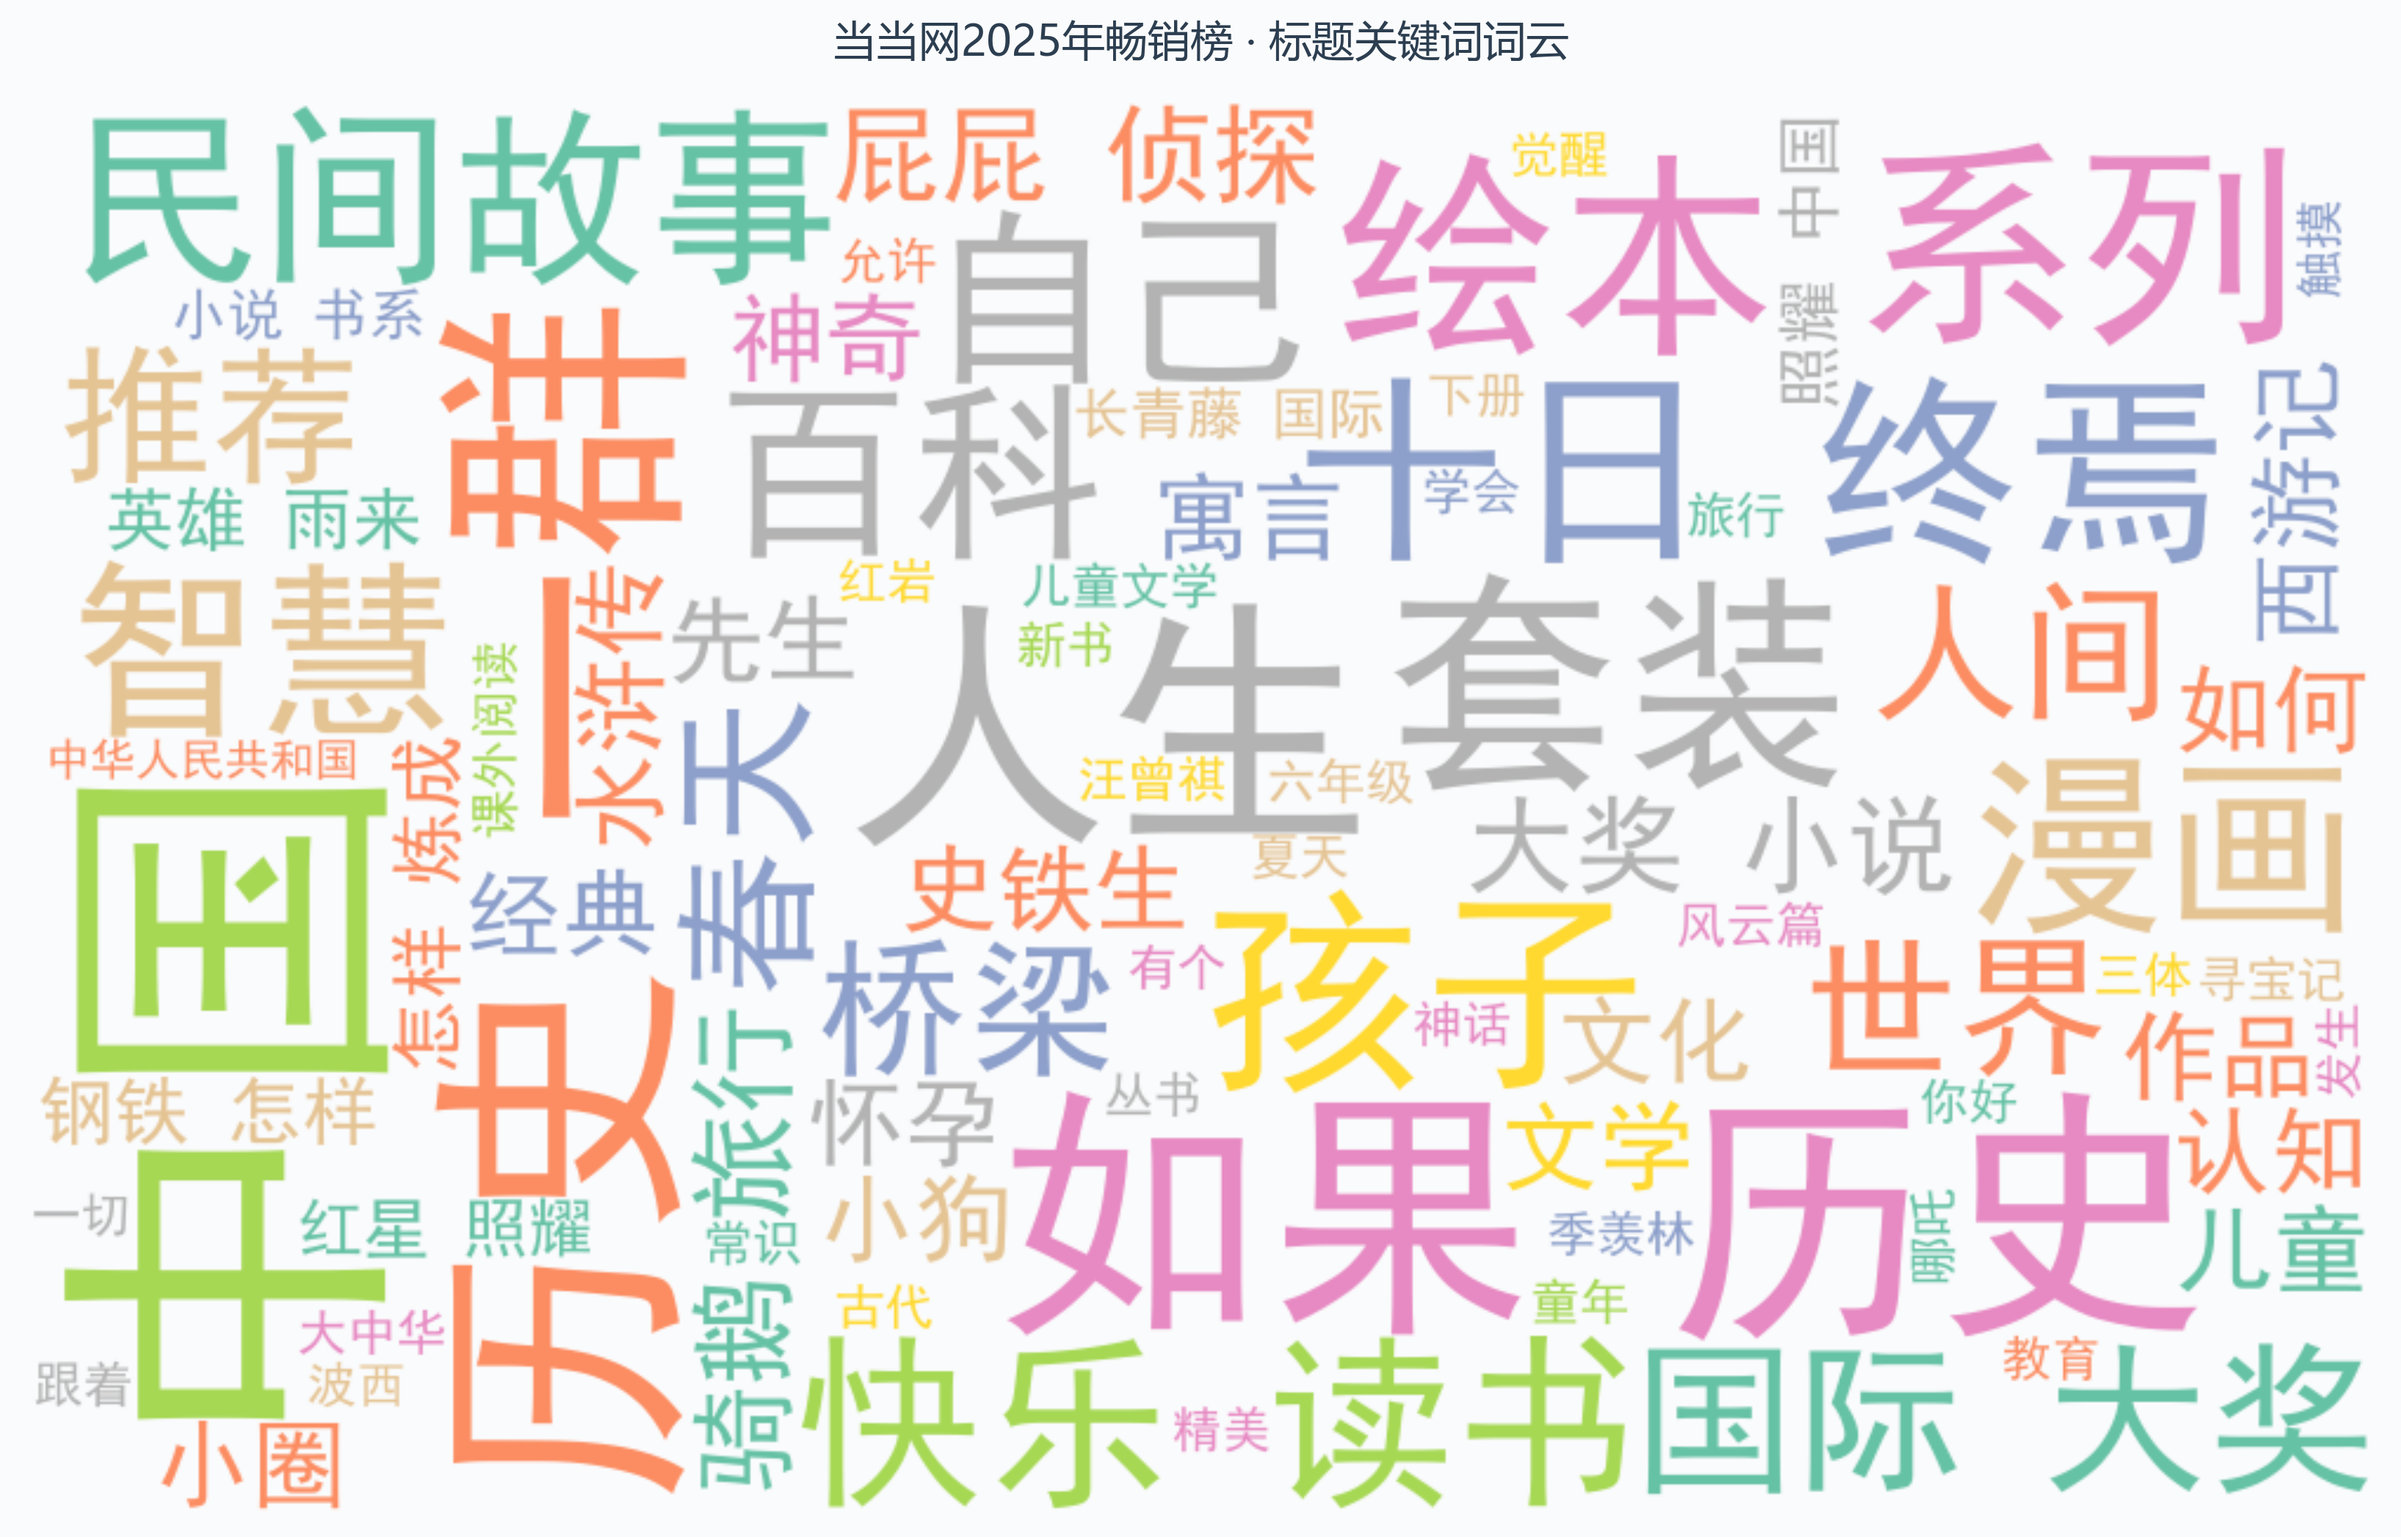
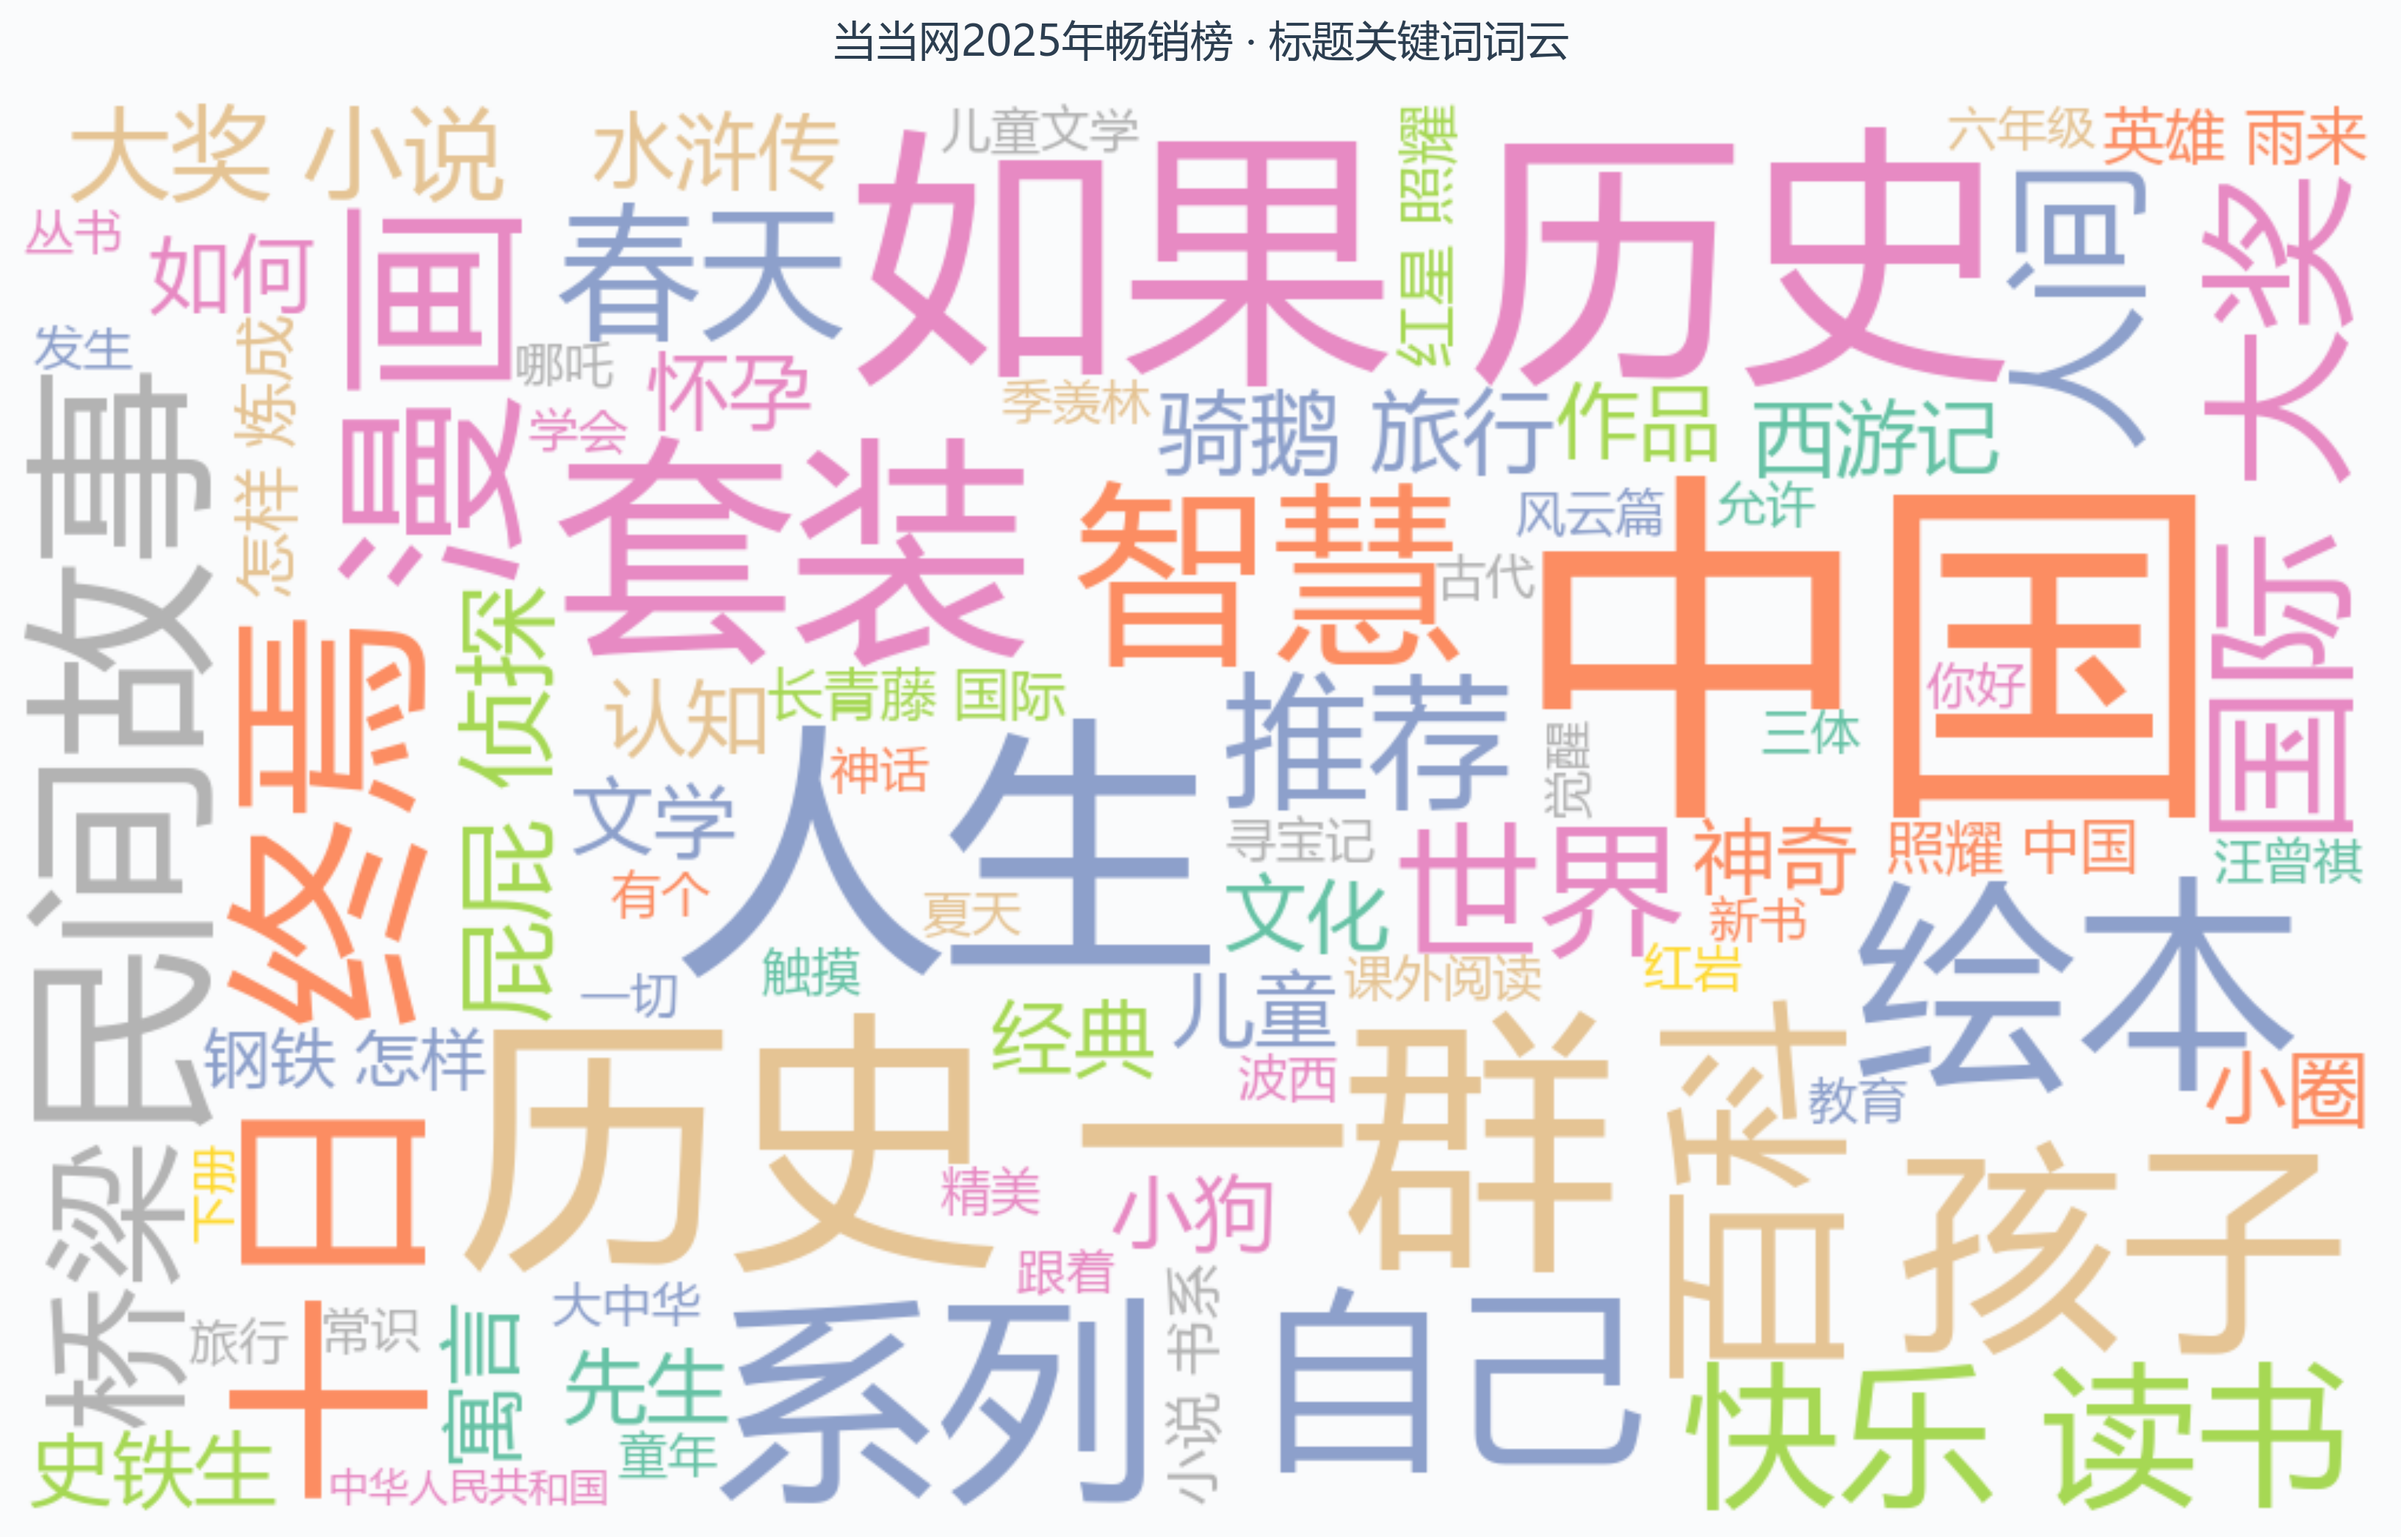
Update

diff --git a/analysis/当当网畅销榜分析报告（2025）.md b/analysis/当当网畅销榜分析报告（2025）.md
@@ -1,4 +1,4 @@
-# 当当网畅销榜分析报告（例）
+# 当当网畅销榜分析报告（2025年度）
 
 **数据来源**：当当网2025年畅销榜Top500  
 **数据规模**：500条记录 / 445种图书 / 379位作者 / 137家出版社 / 33个分类  
@@ -14,7 +14,7 @@
 
 ## 一、分类势力范围：教育类图书统治榜单
 
-![分类势力范围](charts/01_分类势力范围.png)
+![分类势力范围](charts/YR_bs_2025_01_分类势力范围.png)
 
 ### 数据事实
 
@@ -43,7 +43,7 @@
 
 ## 二、价格-排名关系：20-40元是绝对黄金价格带
 
-![价格排名关系](charts/02_价格排名关系.png)
+![价格排名关系](charts/YR_bs_2025_02_价格排名关系.png)
 
 ### 数据事实
 
@@ -73,7 +73,7 @@
 
 ## 三、价格-评分黄金组合：高性价比是上榜通行证
 
-![价格评分热力图](charts/03_价格评分热力图.png)
+![价格评分热力图](charts/YR_bs_2025_03_价格评分热力图.png)
 
 ### 数据事实
 
@@ -102,7 +102,7 @@
 
 ## 四、标题关键词：教育、历史、诗词是流量密码
 
-![标题词云](charts/04_标题词云.png)
+![标题词云](charts/YR_bs_2025_04_标题词云.png)
 
 ### 分析洞察
 
@@ -123,7 +123,7 @@
 
 ## 五、出版社竞争格局：人教社一家独大
 
-![出版社实力雷达图](charts/05_出版社实力雷达图.png)
+![出版社实力雷达图](charts/YR_bs_2025_05_出版社实力雷达图.png)
 
 ### 数据事实
 
@@ -154,7 +154,7 @@
 
 ## 六、排名分层特征：口碑是冲击头部的核心
 
-![排名分层对比](charts/06_排名分层对比.png)
+![排名分层对比](charts/YR_bs_2025_06_排名分层对比.png)
 
 ### 数据事实
 

diff --git a/README.md b/README.md
@@ -28,6 +28,7 @@
 - **标题关键词**：词云图分析畅销书流量密码
 - **出版社实力**：雷达图多维度对比头部出版社
 - **排名分层对比**：箱线图揭示不同层级图书特征差异
+- **批次筛选**（V2.1.0 新增）：按batch_id筛选不同时间段数据，支持年度/月度/周度等多批次切换分析
 
 ## 技术栈
 
@@ -153,6 +154,7 @@ DangDangCrawler/
 
 | 版本 | 日期 | 说明 |
 |------|------|------|
+| V2.1.0 | 2026-05-01 | 分析模块支持按批次筛选不同时间段数据 |
 | V2.0.0 | 2026-05-01 | 新增数据分析模块（6维度可视化分析） |
 | V1.0.0 | 2026-04-30 | 初始版本（爬虫采集与存储） |
 
